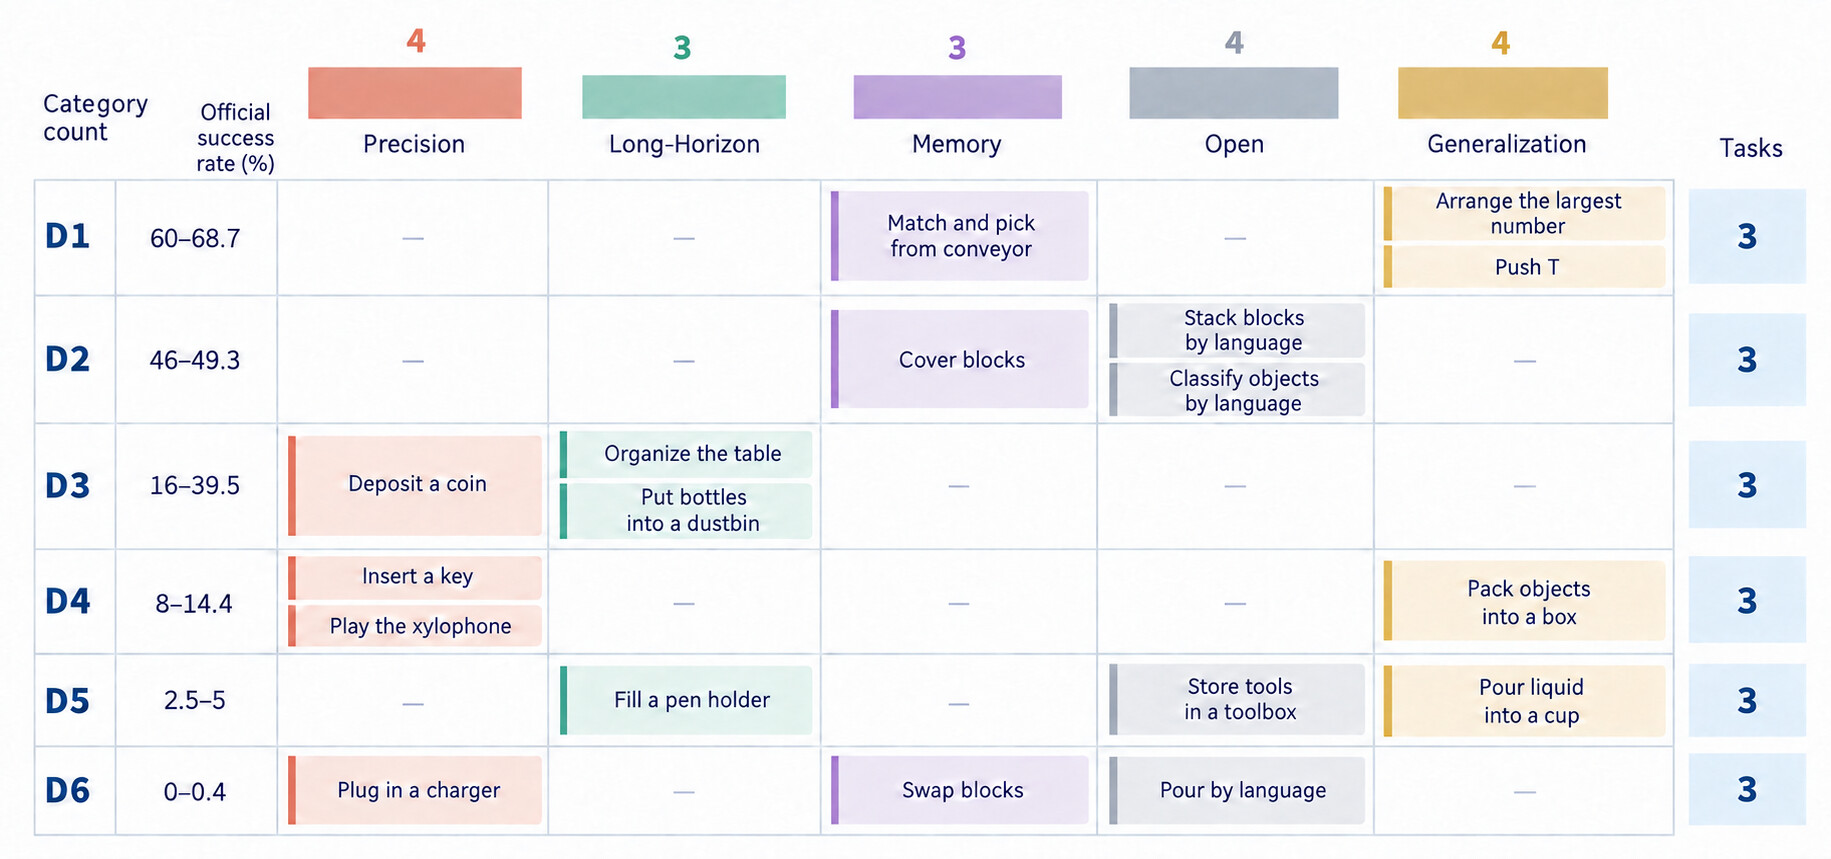
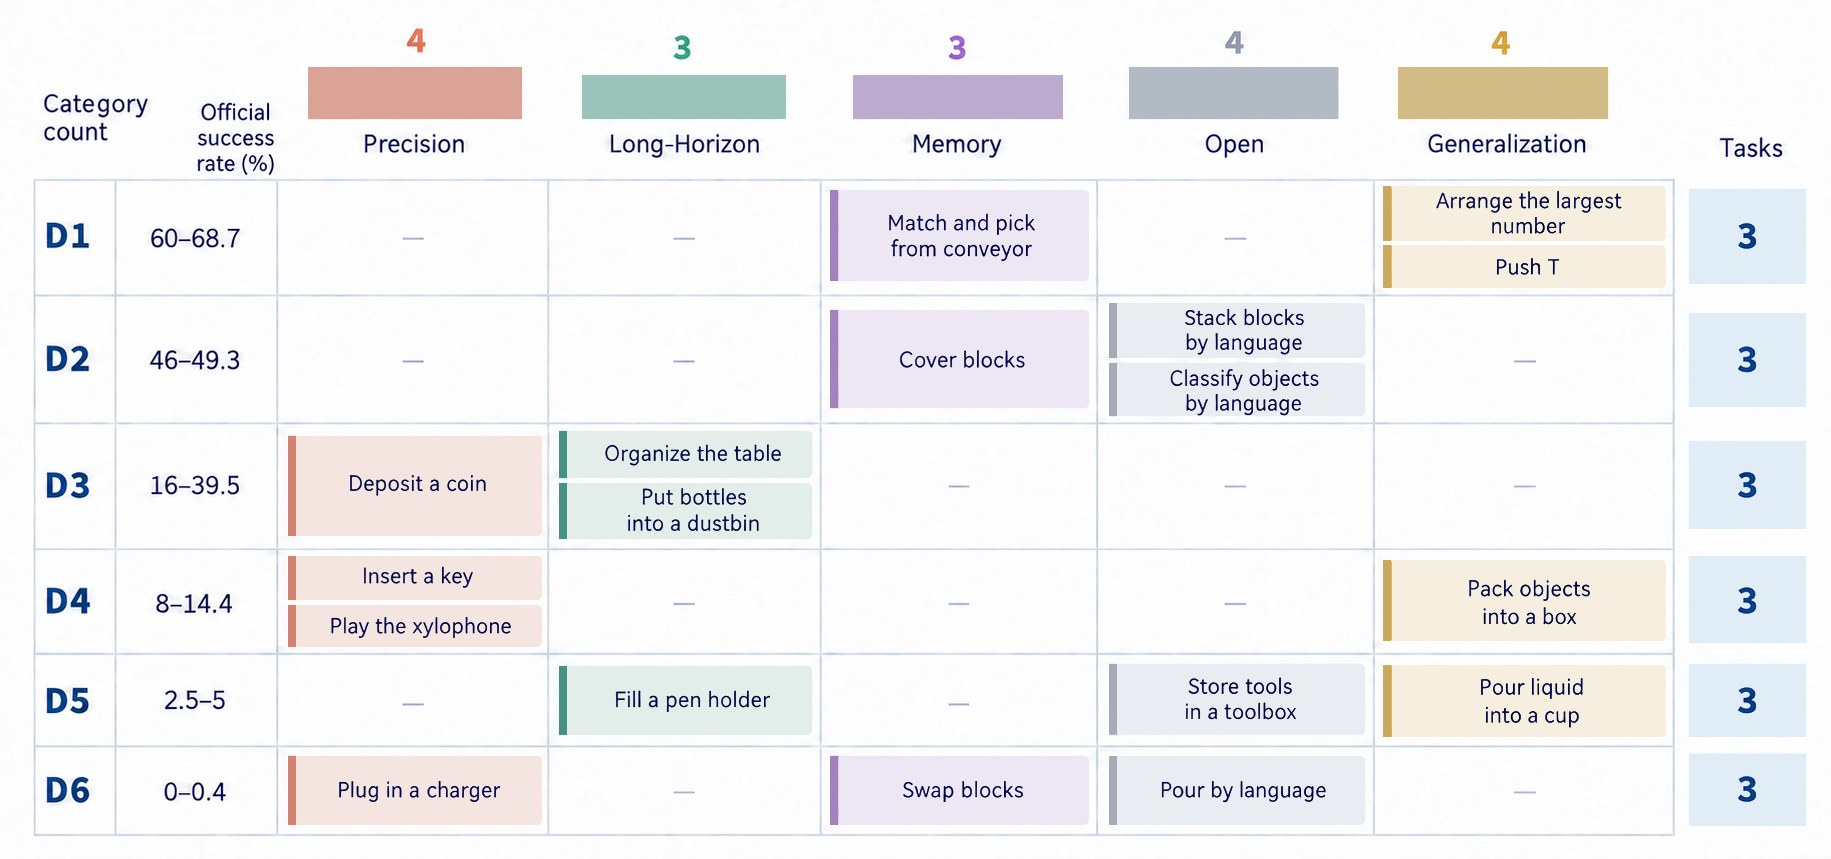
Sync with Overleaf: new teaser and task table, A1-A5 in overview caption, observational scaling rationale

diff --git a/index.html b/index.html
@@ -189,7 +189,7 @@
         <p class="eyebrow">Overview</p>
         <figure>
           <img src="static/img/teaser.jpg" alt="Overview with three rows. Q1: two barrels with staves for harness, coding, spatial and perception; a spatial bottleneck for First-Attempt Performance, Efficiency and Budget, and a perception bottleneck for Success and Improvement. Q2: public benchmarks predict the turning point and rank of each system's best-score curve, next to a five-axis radar. Q3: reusable operations transfer from stacking blocks to covering blocks with a cup, and from key insertion to plugging a charger.">
-          <figcaption><b>PhysRSI-eval at a glance.</b> (Q1)&nbsp;Capability sources and the Physical Barrel Hypothesis. (Q2)&nbsp;Five-axis quantification and observational scaling of performance, gain timing and model rankings. <i>T</i><sub>50</sub> is the half-gain round, the first round at which the best mean score reaches half of its K1&ndash;K17 gain. (Q3)&nbsp;Overfitting and generalization across tasks and scenes.</figcaption>
+          <figcaption><b>PhysRSI-eval overview.</b> (Q1)&nbsp;Capability sources and the Physical Barrel Hypothesis. (Q2)&nbsp;Five-axis quantification and observational scaling of performance, gain timing and model rankings. A1&ndash;A5 measure the first-attempt score, how early gains appear, the best score attained, the physical budget saved before first success, and the fraction of first-round failures later solved. <i>T</i><sub>50</sub> is the half-gain round, the first round at which the best mean score reaches half of its K1&ndash;K17 gain. (Q3)&nbsp;Overfitting and generalization across tasks and scenes.</figcaption>
         </figure>
       </div>
     </section>
@@ -336,7 +336,7 @@
       <div class="wrap">
         <p class="qlabel"><b>Q2:</b> How can we quantify Physical RSI and its scaling law?</p>
         <h3>Predicting the order from public capability profiles</h3>
-        <p class="lead">Public capability profiles reproduce the observed order of both the best score by K17 and <i>T</i><sub>50</sub>, the half-gain round.</p>
+        <p class="lead">Classical scaling laws relate performance to model size and training compute, which closed-source models do not disclose. Observational scaling instead uses public benchmark scores, aggregated into spatial reasoning, perception, coding and harness-use factors, as an observable substitute. Public capability profiles reproduce the observed order of both the best score by K17 and <i>T</i><sub>50</sub>, the half-gain round.</p>
         <figure>
           <img src="static/img/half_gain_round_prediction.svg" alt="Left: four capability profiles of each system from 17 public benchmarks. Right: best mean score by round for six systems, with circles at the half-gain round and predicted / observed rank labels." loading="lazy">
           <figcaption><b>Predicting the timing of gains from public capability profiles.</b> Left: four capability profiles of each system, computed from 17 public benchmarks as normalized ranks among the six systems. Right: best mean score on the 18 tasks. Labels give predicted / observed ranks; each pair of systems is predicted from the other four.</figcaption>
